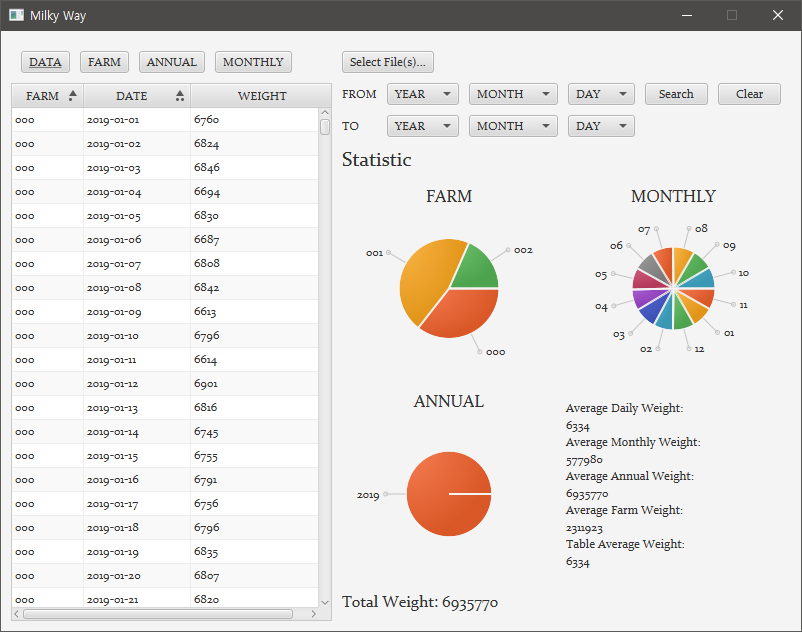
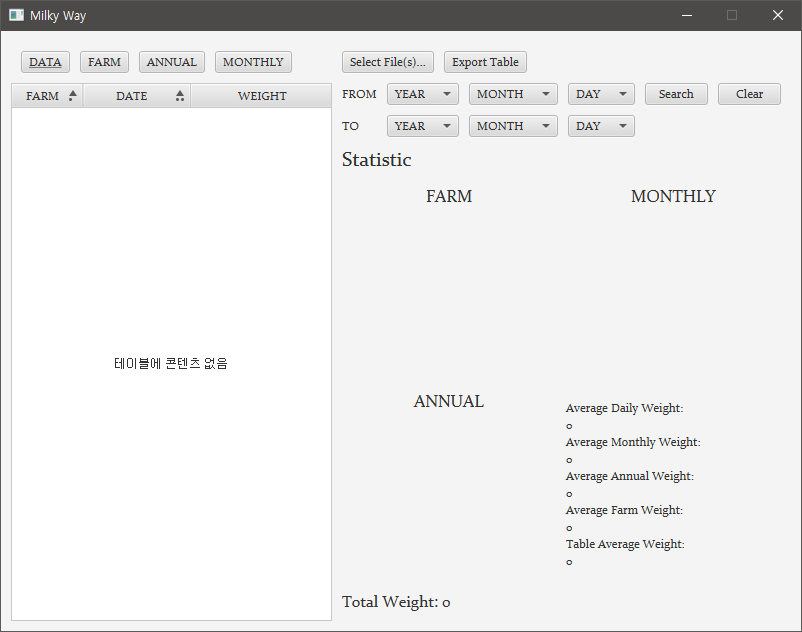
Add file export

diff --git a/application/Main.java b/application/Main.java
@@ -1,6 +1,9 @@
 package application;
 
+import java.io.BufferedWriter;
 import java.io.File;
+import java.io.FileWriter;
+import java.io.Writer;
 import java.util.Calendar;
 import java.util.List;
 import javafx.application.Application;
@@ -30,14 +33,15 @@ public class Main extends Application {
   private static final int WINDOW_HEIGHT = 600; // Height
   private BorderPane root; // Root Pane of UI
   private Scene mainScene; // Main Scene of Program
-  private VBox leftPanel, rightPanel, rightTop; // UI Panel
-  private HBox leftTop, rightBottom; // UI Panel
+  private VBox leftPanel, rightPanel; // UI Panels
+  private HBox leftTop, rightBottom, rightTop; // UI Panels
   private TableView<Farm> csvTable; // Table of Data
   private FarmReport report; // FarmReport of program
   private Button[] tabB; // Tab Buttons
   private FileChooser fileChooser; // FileChooser to choose file
   private Label total, average; // Label to display Total Weight, Average Weight
-  private Button selectfile, Isearch, Iclear; // Button to Choose File, Search by input, Clear input
+  private Button selectfile, exportfile, Isearch, Iclear; // Button to Choose File, Extract, Search
+                                                          // by input, Clear input
   private GridPane chartgrid, inputGrid; // Grid for PieChart and input section
   private PieChart farmChart, monthChart, yearChart; // PieChart for farm, month, year
   private ObservableList<Farm> dataList; // List for TableView
@@ -105,13 +109,12 @@ public class Main extends Application {
     inputGrid.add(Isearch, 4, 0);
     inputGrid.add(Iclear, 5, 0);
 
-    average.setText(
-        "Average Daily Weight: \n" + report.getDailyAverage(null, null, null, null, null, null)
-            + "\nAverage Monthly Weight: \n" + report.getMonthlyAverage(null, null)
-            + "\nAverage Annual Weight: \n" + report.getAnnualAverage()
-            + "\nAverage Farm Weight: \n" + report.getFarmAverage(null, null)
-            + "\nTable Average Weight: \n"
-            + report.getDailyAverage(null, null, null, null, null, null));
+    average.setText("Average Daily Weight: \n"
+        + report.getDailyAverage(null, null, null, null, null, null)
+        + "\nAverage Monthly Weight: \n" + report.getMonthlyAverage(null, null)
+        + "\nAverage Annual Weight: \n" + report.getAnnualAverage() + "\nAverage Farm Weight: \n"
+        + report.getFarmAverage(null, null) + "\nTable Average Weight: \n"
+        + report.getDailyAverage(null, null, null, null, null, null));
 
     Isearch.setOnAction(e -> {
       csvTable.setItems(FXCollections
@@ -121,26 +124,25 @@ public class Main extends Application {
       average.setText("Average Daily Weight: \n"
           + report.getDailyAverage(null, null, null, null, null, null)
           + "\nAverage Monthly Weight: \n" + report.getMonthlyAverage(null, null)
-          + "\nAverage Annual Weight: \n" + report.getAnnualAverage()
-          + "\nAverage Farm Weight: \n" + report.getFarmAverage(null, null)
-          + "\nTable Average Weight: \n" + report.getDailyAverage(year.getValue(), month.getValue(),
-              day.getValue(), dyear.getValue(), dmonth.getValue(), dday.getValue()));
+          + "\nAverage Annual Weight: \n" + report.getAnnualAverage() + "\nAverage Farm Weight: \n"
+          + report.getFarmAverage(null, null) + "\nTable Average Weight: \n"
+          + report.getDailyAverage(year.getValue(), month.getValue(), day.getValue(),
+              dyear.getValue(), dmonth.getValue(), dday.getValue()));
     });
 
     selectfile.setOnAction(e -> {
       List<File> selectedFiles = fileChooser.showOpenMultipleDialog(primaryStage);
-      if (selectedFiles != null)
-        for (File f : selectedFiles) {
-          report.readCSV(f);
-        }
+      if (selectedFiles == null)
+        return;
+      for (File f : selectedFiles)
+        report.readCSV(f);
       total.setText("Total Weight: " + report.getTotalWeight());
-      average.setText(
-          "Average Daily Weight: \n" + report.getDailyAverage(null, null, null, null, null, null)
-              + "\nAverage Monthly Weight: \n" + report.getMonthlyAverage(null, null)
-              + "\nAverage Annual Weight: \n" + report.getAnnualAverage()
-              + "\nAverage Farm Weight: \n" + report.getFarmAverage(null, null)
-              + "\nTable Average Weight: \n"
-              + report.getDailyAverage(null, null, null, null, null, null));
+      average.setText("Average Daily Weight: \n"
+          + report.getDailyAverage(null, null, null, null, null, null)
+          + "\nAverage Monthly Weight: \n" + report.getMonthlyAverage(null, null)
+          + "\nAverage Annual Weight: \n" + report.getAnnualAverage() + "\nAverage Farm Weight: \n"
+          + report.getFarmAverage(null, null) + "\nTable Average Weight: \n"
+          + report.getDailyAverage(null, null, null, null, null, null));
       showData(primaryStage);
     });
 
@@ -163,7 +165,7 @@ public class Main extends Application {
     inputGrid.add(year, 2, 0);
     inputGrid.add(Isearch, 4, 0);
     inputGrid.add(Iclear, 5, 0);
-    
+
     average.setText(
         "Average Daily Weight: \n" + report.getDailyAverage(null, null, null, null, null, null)
             + "\nAverage Monthly Weight: \n" + report.getMonthlyAverage(null, null)
@@ -198,10 +200,10 @@ public class Main extends Application {
 
     selectfile.setOnAction(e -> {
       List<File> selectedFiles = fileChooser.showOpenMultipleDialog(primaryStage);
-      if (selectedFiles != null)
-        for (File f : selectedFiles) {
-          report.readCSV(f);
-        }
+      if (selectedFiles == null)
+        return;
+      for (File f : selectedFiles)
+        report.readCSV(f);
       total.setText("Total Weight: " + report.getTotalWeight());
       average.setText(
           "Average Daily Weight: \n" + report.getDailyAverage(null, null, null, null, null, null)
@@ -230,7 +232,7 @@ public class Main extends Application {
     inputGrid.add(year, 1, 0);
     inputGrid.add(Isearch, 4, 0);
     inputGrid.add(Iclear, 5, 0);
-    
+
     average.setText(
         "Average Daily Weight: \n" + report.getDailyAverage(null, null, null, null, null, null)
             + "\nAverage Monthly Weight: \n" + report.getMonthlyAverage(null, null)
@@ -252,10 +254,10 @@ public class Main extends Application {
 
     selectfile.setOnAction(e -> {
       List<File> selectedFiles = fileChooser.showOpenMultipleDialog(primaryStage);
-      if (selectedFiles != null)
-        for (File f : selectedFiles) {
-          report.readCSV(f);
-        }
+      if (selectedFiles == null)
+        return;
+      for (File f : selectedFiles)
+        report.readCSV(f);
       total.setText("Total Weight: " + report.getTotalWeight());
       average.setText(
           "Average Daily Weight: \n" + report.getDailyAverage(null, null, null, null, null, null)
@@ -284,7 +286,7 @@ public class Main extends Application {
     inputGrid.add(month, 2, 0);
     inputGrid.add(Isearch, 4, 0);
     inputGrid.add(Iclear, 5, 0);
-    
+
     average.setText(
         "Average Daily Weight: \n" + report.getDailyAverage(null, null, null, null, null, null)
             + "\nAverage Monthly Weight: \n" + report.getMonthlyAverage(null, null)
@@ -296,21 +298,20 @@ public class Main extends Application {
       csvTable.setItems(FXCollections
           .observableArrayList(report.getAnnualMonthlyReport(year.getValue(), month.getValue())));
       csvTable.getSortOrder().add(csvTable.getColumns().get(0));
-      average.setText(
-          "Average Daily Weight: \n" + report.getDailyAverage(null, null, null, null, null, null)
-              + "\nAverage Monthly Weight: \n" + report.getMonthlyAverage(null, null)
-              + "\nAverage Annual Weight: \n" + report.getAnnualAverage()
-              + "\nAverage Farm Weight: \n" + report.getFarmAverage(null, null)
-              + "\nTable Average Weight: \n"
-              + report.getFarmAverage(year.getValue(), month.getValue()));
+      average.setText("Average Daily Weight: \n"
+          + report.getDailyAverage(null, null, null, null, null, null)
+          + "\nAverage Monthly Weight: \n" + report.getMonthlyAverage(null, null)
+          + "\nAverage Annual Weight: \n" + report.getAnnualAverage() + "\nAverage Farm Weight: \n"
+          + report.getFarmAverage(null, null) + "\nTable Average Weight: \n"
+          + report.getFarmAverage(year.getValue(), month.getValue()));
     });
 
     selectfile.setOnAction(e -> {
       List<File> selectedFiles = fileChooser.showOpenMultipleDialog(primaryStage);
-      if (selectedFiles != null)
-        for (File f : selectedFiles) {
-          report.readCSV(f);
-        }
+      if (selectedFiles == null)
+        return;
+      for (File f : selectedFiles)
+        report.readCSV(f);
       total.setText("Total Weight: " + report.getTotalWeight());
       average.setText(
           "Average Daily Weight: \n" + report.getDailyAverage(null, null, null, null, null, null)
@@ -356,7 +357,7 @@ public class Main extends Application {
     mainScene = new Scene(root, WINDOW_WIDTH, WINDOW_HEIGHT);
     leftPanel = new VBox();
     leftTop = new HBox();
-    rightTop = new VBox();
+    rightTop = new HBox();
     rightPanel = new VBox();
     csvTable = new TableView<>();
     report = new FarmReport();
@@ -371,6 +372,8 @@ public class Main extends Application {
     tabB = new Button[] {new Button("DATA"), new Button("FARM"), new Button("ANNUAL"),
         new Button("MONTHLY")};
     fileChooser = new FileChooser();
+    selectfile = new Button("Select File(s)...");
+    exportfile = new Button("Export Table");
     inputGrid = new GridPane();
     Isearch = new Button("Search");
     Iclear = new Button("Clear");
@@ -414,8 +417,29 @@ public class Main extends Application {
 
     // Right Top Setup: FileChooser
     fileChooser.setInitialDirectory(new File("."));
-    selectfile = new Button("Select File(s)...");
+    fileChooser.getExtensionFilters()
+        .add(new FileChooser.ExtensionFilter("CSV files (*.csv)", "*.csv"));
     selectfile.setFocusTraversable(false);
+    exportfile.setFocusTraversable(false);
+    exportfile.setOnAction(e -> {
+      File file = fileChooser.showSaveDialog(primaryStage);
+      if (file == null)
+        return;
+      Writer writer = null;
+      try {
+        writer = new BufferedWriter(new FileWriter(file));
+        writer.write(
+            csvTable.getColumns().get(0).getText() + "," + csvTable.getColumns().get(1).getText()
+                + "," + csvTable.getColumns().get(2).getText() + "\n");
+        for (Farm f : csvTable.getItems()) {
+          writer.write(f.getF1() + "," + f.getF2() + "," + f.getF3() + "\n");
+        }
+        writer.flush();
+        writer.close();
+      } catch (Exception e1) {
+        e1.printStackTrace();
+      }
+    });
 
     // Right Top Setup: User Input
     inputGrid.setHgap(10);
@@ -453,11 +477,13 @@ public class Main extends Application {
       }
       if (!month.getItems().isEmpty() && !month.getValue().equals("02")) {
         day.getItems().addAll("29", "30");
-        if (month.getValue().equals("04") || month.getValue().equals("06")
+        if (month.getValue().equals("01") || month.getValue().equals("03")
+            || month.getValue().equals("05") || month.getValue().equals("07")
             || month.getValue().equals("08") || month.getValue().equals("10")
             || month.getValue().equals("12"))
           day.getItems().add("31");
-      }
+      } else if (year.getValue() != null && Integer.parseInt(year.getValue()) % 4 == 0)
+        day.getItems().add("29");
     });
     dyear.setFocusTraversable(false);
     dyear.setPromptText("YEAR");
@@ -497,13 +523,12 @@ public class Main extends Application {
     chartgrid.add(monthChart, 1, 1);
     chartgrid.add(yearChart, 0, 2);
     chartgrid.add(average, 1, 2);
-    average.setText(
-        "Average Daily Weight: \n" + report.getDailyAverage(null, null, null, null, null, null)
-            + "\nAverage Monthly Weight: \n" + report.getMonthlyAverage(null, null)
-            + "\nAverage Annual Weight: \n" + report.getAnnualAverage()
-            + "\nAverage Farm Weight: \n" + report.getFarmAverage(null, null)
-            + "\nTable Average Weight: \n"
-            + report.getDailyAverage(null, null, null, null, null, null));
+    average.setText("Average Daily Weight: \n"
+        + report.getDailyAverage(null, null, null, null, null, null)
+        + "\nAverage Monthly Weight: \n" + report.getMonthlyAverage(null, null)
+        + "\nAverage Annual Weight: \n" + report.getAnnualAverage() + "\nAverage Farm Weight: \n"
+        + report.getFarmAverage(null, null) + "\nTable Average Weight: \n"
+        + report.getDailyAverage(null, null, null, null, null, null));
     farmChart.prefWidthProperty().bind(chartgrid.widthProperty().divide(2));
     monthChart.prefWidthProperty().bind(chartgrid.widthProperty().divide(2));
     yearChart.prefWidthProperty().bind(chartgrid.widthProperty().divide(2));
@@ -518,13 +543,13 @@ public class Main extends Application {
     rightBottom.getChildren().addAll(total);
 
     // Right Pannel Setup
-    rightTop.getChildren().addAll(selectfile, inputGrid);
+    rightTop.getChildren().addAll(selectfile, exportfile);
     rightTop.setSpacing(10);
     rightPanel.setPadding(new Insets(10));
     rightPanel.setSpacing(10);
     root.setCenter(rightPanel);
     root.setPadding(new Insets(10));
-    rightPanel.getChildren().addAll(rightTop, chartgrid, rightBottom);
+    rightPanel.getChildren().addAll(rightTop, inputGrid, chartgrid, rightBottom);
   }
 
   /**
